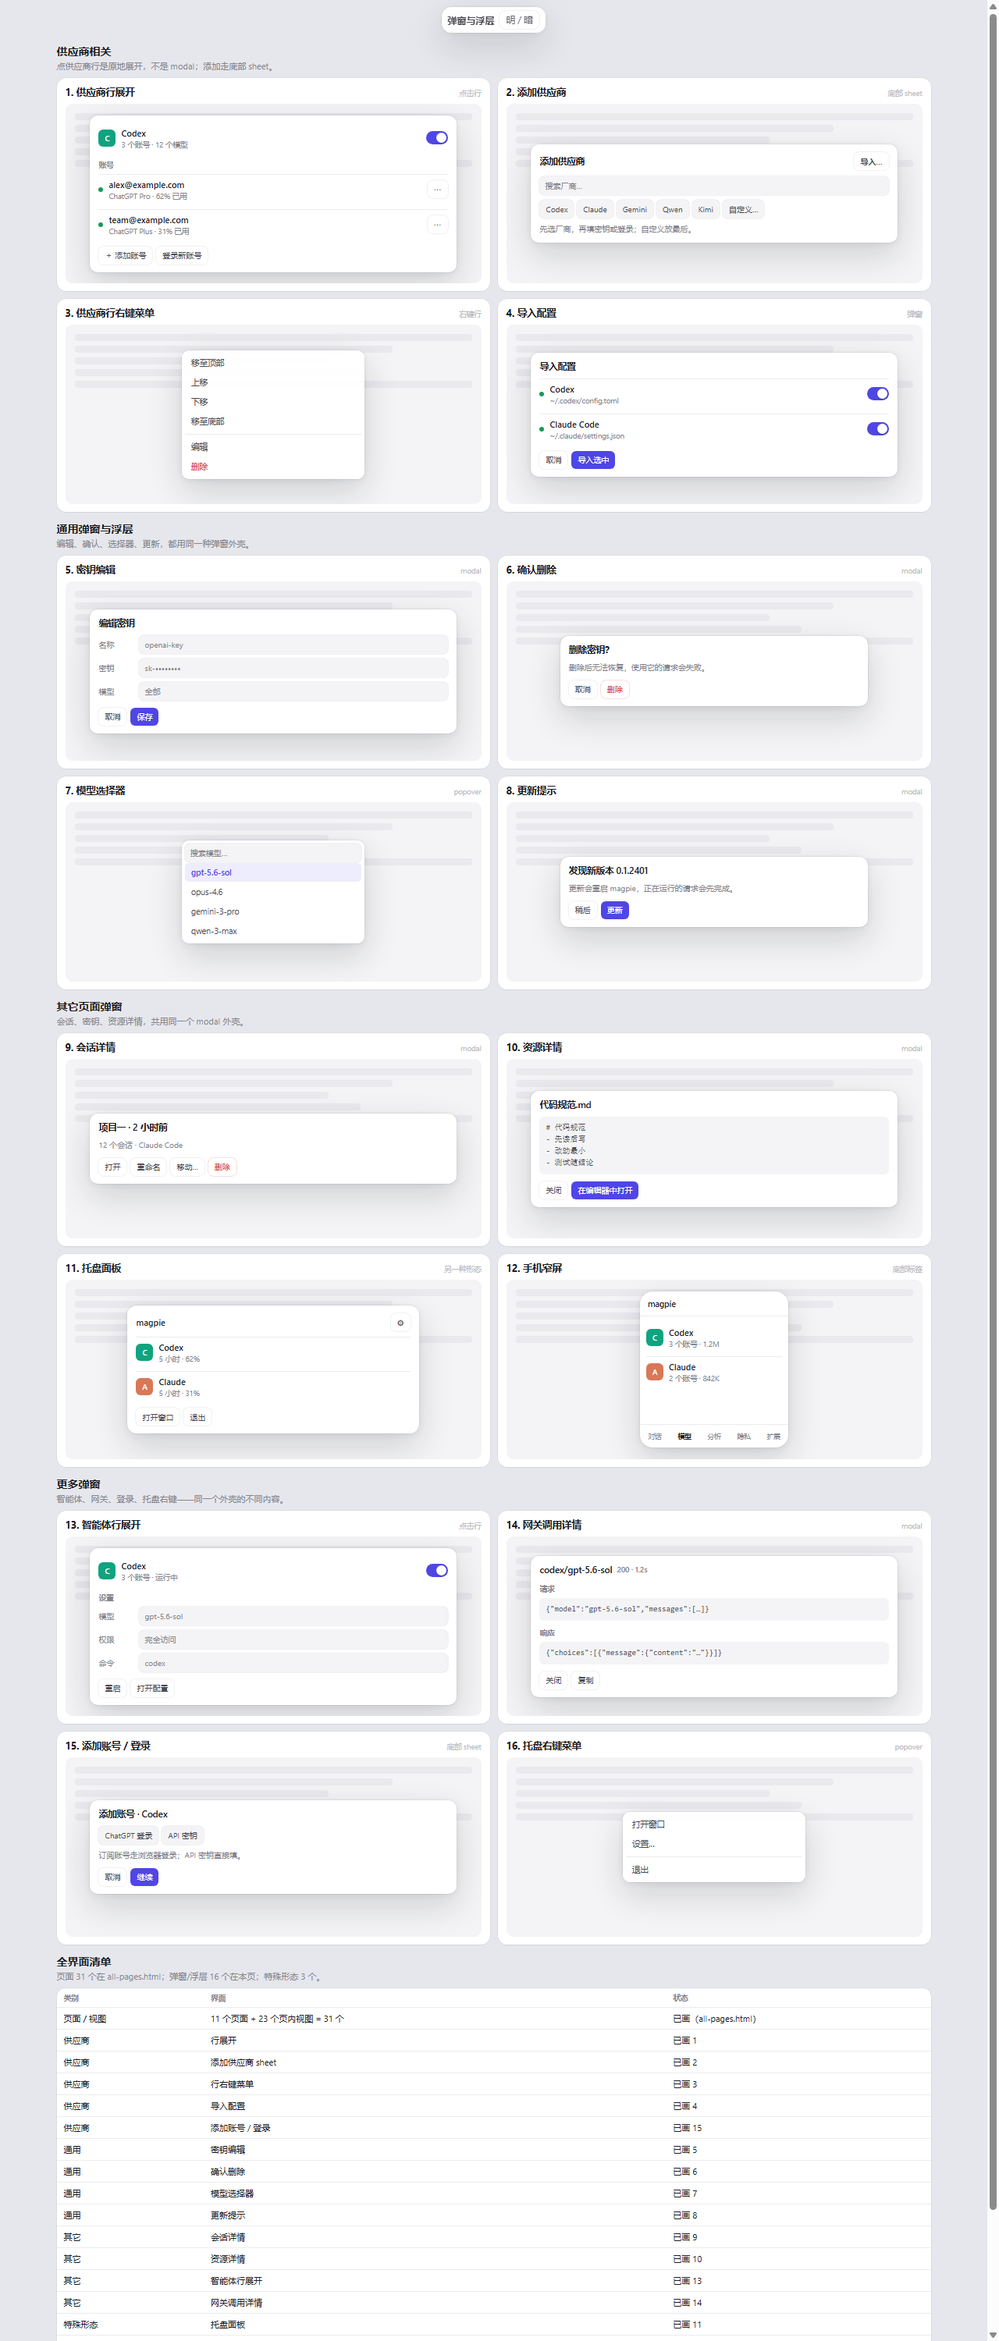
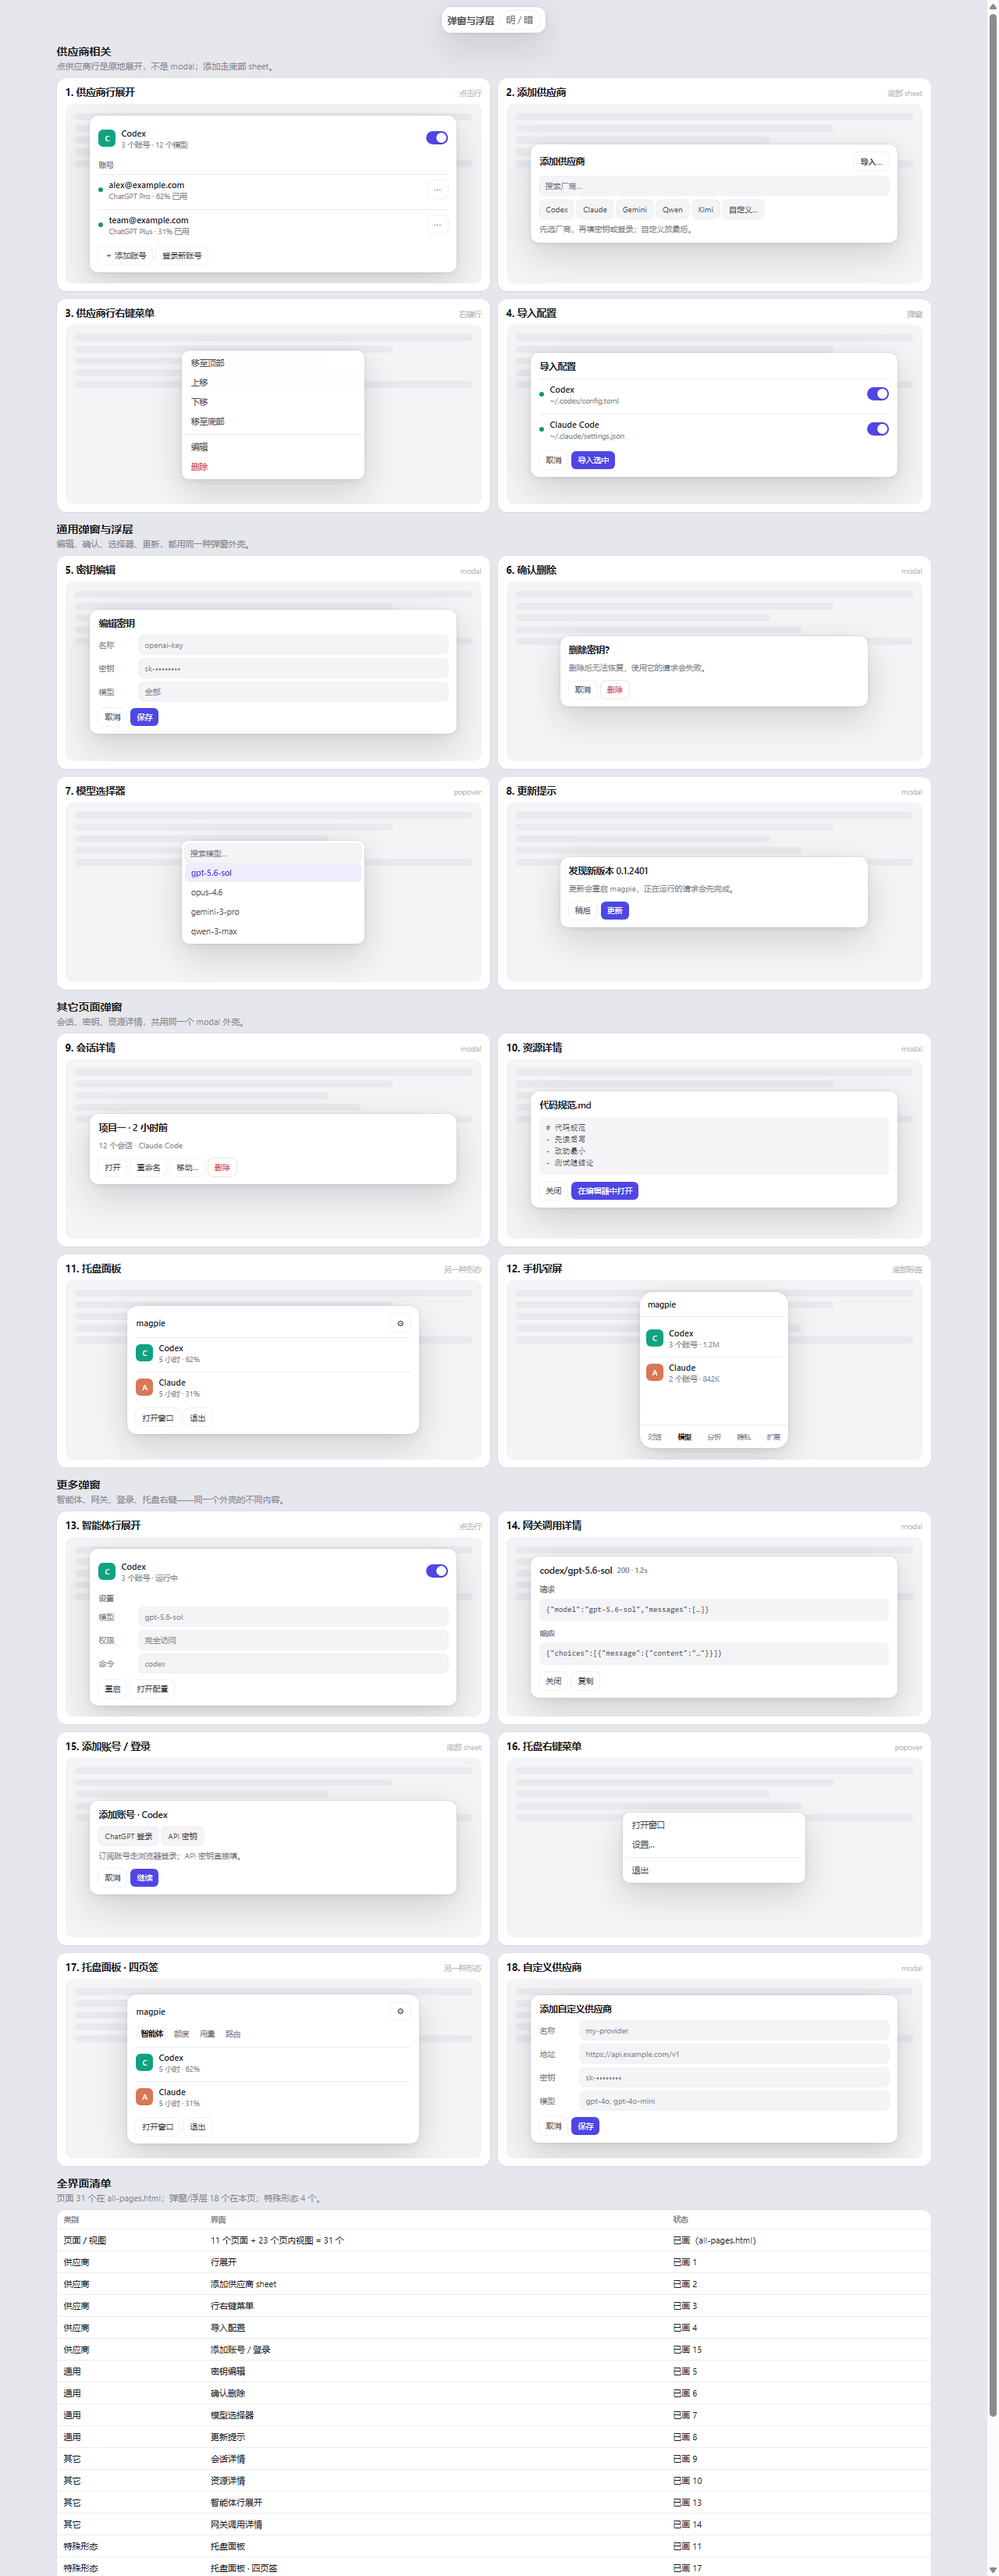
prototypes: audit gaps, tray tabs, and custom provider form

diff --git a/workspace/附属产物/nav-refactor/overlays.html b/workspace/附属产物/nav-refactor/overlays.html
@@ -90,6 +90,9 @@ section{width:1120px;max-width:100%}
 .panel{position:relative;z-index:1;width:70%;background:var(--card);border-radius:12px;box-shadow:var(--shadow);padding:10px 11px;display:flex;flex-direction:column;gap:5px}
 .panel-h{display:flex;align-items:center;gap:6px;font-size:11px;font-weight:600;margin-bottom:2px}
 .panel-h .grow{flex:1}
+.ptabs{display:flex;gap:2px;margin:2px 0 4px;font-size:9.5px;color:var(--muted)}
+.ptabs b,.ptabs span{padding:2px 6px;border-radius:5px}
+.ptabs b{background:var(--card-2);color:var(--fg);font-weight:600}
 .phone{position:relative;z-index:1;width:190px;height:200px;background:var(--card);border-radius:16px;box-shadow:var(--shadow);overflow:hidden;display:flex;flex-direction:column}
 .phone-h{height:32px;display:flex;align-items:center;padding:0 10px;font-size:10.5px;font-weight:600;border-bottom:.5px solid var(--line-2)}
 .phone-b{flex:1;padding:8px;display:flex;flex-direction:column;gap:5px}
@@ -326,12 +329,39 @@ td:first-child{font-weight:500}
         </div>
       </div>
     </div>
+    <div class="card">
+      <div class="ch"><b>17. 托盘面板 · 四页签</b><span>另一种形态</span></div>
+      <div class="stage">
+        <div class="dim"></div><div class="skel"><i></i><i></i><i></i><i></i><i></i></div>
+        <div class="panel">
+          <div class="panel-h">magpie<span class="grow"></span><button class="btn">⚙</button></div>
+          <div class="ptabs"><b>智能体</b><span>额度</span><span>用量</span><span>路由</span></div>
+          <div class="item"><span class="logo2" style="background:#10a37f">C</span><div class="who"><div class="nm">Codex</div><div class="sub">5 小时 · 62%</div></div></div>
+          <div class="item"><span class="logo2" style="background:#d97757">A</span><div class="who"><div class="nm">Claude</div><div class="sub">5 小时 · 31%</div></div></div>
+          <div class="rowbtns"><button class="btn">打开窗口</button><button class="btn">退出</button></div>
+        </div>
+      </div>
+    </div>
+    <div class="card">
+      <div class="ch"><b>18. 自定义供应商</b><span>modal</span></div>
+      <div class="stage">
+        <div class="dim"></div><div class="skel"><i></i><i></i><i></i><i></i><i></i></div>
+        <div class="sheet">
+          <div class="sheet-h">添加自定义供应商</div>
+          <div class="formrow"><label>名称</label><div class="field">my-provider</div></div>
+          <div class="formrow"><label>地址</label><div class="field">https://api.example.com/v1</div></div>
+          <div class="formrow"><label>密钥</label><div class="field">sk-••••••••</div></div>
+          <div class="formrow"><label>模型</label><div class="field">gpt-4o, gpt-4o-mini</div></div>
+          <div class="rowbtns"><button class="btn">取消</button><button class="btn primary">保存</button></div>
+        </div>
+      </div>
+    </div>
   </div>
 </section>
 
 <section>
   <h2>全界面清单</h2>
-  <p class="lead">页面 31 个在 all-pages.html；弹窗/浮层 16 个在本页；特殊形态 3 个。</p>
+  <p class="lead">页面 31 个在 all-pages.html；弹窗/浮层 18 个在本页；特殊形态 4 个。</p>
   <table>
     <thead><tr><th>类别</th><th>界面</th><th>状态</th></tr></thead>
     <tbody>
@@ -350,7 +380,9 @@ td:first-child{font-weight:500}
       <tr><td>其它</td><td>智能体行展开</td><td>已画 13</td></tr>
       <tr><td>其它</td><td>网关调用详情</td><td>已画 14</td></tr>
       <tr><td>特殊形态</td><td>托盘面板</td><td>已画 11</td></tr>
+      <tr><td>特殊形态</td><td>托盘面板 · 四页签</td><td>已画 17</td></tr>
       <tr><td>特殊形态</td><td>托盘右键菜单</td><td>已画 16</td></tr>
+      <tr><td>供应商</td><td>自定义供应商表单</td><td>已画 18</td></tr>
       <tr><td>特殊形态</td><td>手机窄屏</td><td>已画 12</td></tr>
       <tr><td>外部流程</td><td>OAuth 登录页、系统文件选择、浏览器授权</td><td>系统/外部页面，不画</td></tr>
       <tr><td>提示类</td><td>状态栏提示、错误条、加载骨架</td><td>组件已覆盖</td></tr>

diff --git a/workspace/附属产物/nav-refactor/index.html b/workspace/附属产物/nav-refactor/index.html
@@ -99,7 +99,7 @@ td .f{font-size:9.5px;color:var(--muted)}
       </a>
       <a class="entry" href="overlays.html">
         <span class="n">③ 浮层</span>
-        <b>弹窗与浮层（16 个）</b>
+        <b>弹窗与浮层（18 个）</b>
         <span class="d">供应商行展开、添加 sheet、确认、选择器、托盘</span>
         <span class="pill now">当前</span>
       </a>
@@ -132,12 +132,13 @@ td .f{font-size:9.5px;color:var(--muted)}
       <tbody>
         <tr><td><a href="skeleton-components.html">skeleton-components.html</a></td><td><span class="pill ok">当前</span></td><td>骨架与通用组件</td><td>外壳 + 4 导航组件 + 11 内容组件<br><span class="f">骨架宽/窄、明暗</span></td></tr>
         <tr><td><a href="all-pages.html">all-pages.html</a></td><td><span class="pill now">当前</span></td><td>全部页面与页内视图</td><td>31 个视图 + 每页元素表 + 31 行总索引<br><span class="f">顶部可开「标注」</span></td></tr>
-        <tr><td><a href="overlays.html">overlays.html</a></td><td><span class="pill now">当前</span></td><td>弹窗与浮层</td><td>16 个 + 19 行全界面清单<br><span class="f">含托盘、手机、外部流程说明</span></td></tr>
+        <tr><td><a href="overlays.html">overlays.html</a></td><td><span class="pill now">当前</span></td><td>弹窗与浮层</td><td>18 个 + 21 行全界面清单<br><span class="f">含托盘、手机、外部流程说明</span></td></tr>
         <tr><td><a href="framework-layers.html">framework-layers.html</a></td><td><span class="pill ok">定稿</span></td><td>四层导航框架</td><td>一级 5 分区 / 二级页面 / 三级标签 / 四级工具栏<br><span class="f">外壳已定，不再改</span></td></tr>
         <tr><td><a href="grouping-options.html">grouping-options.html</a></td><td><span class="pill prop">提案</span></td><td>导航分组 A/B/C</td><td>3 套分组方案，尚未确认<br><span class="f">等选 A / B / C</span></td></tr>
         <tr><td><a href="layout-detail.html">layout-detail.html</a></td><td><span class="pill old">历史</span></td><td>六页细节版</td><td>真实页内标签数的早期版本<br><span class="f">已被 all-pages 取代</span></td></tr>
         <tr><td><a href="layout-frameworks.html">layout-frameworks.html</a></td><td><span class="pill old">历史</span></td><td>宽窄两套骨架</td><td>早期框架对比<br><span class="f">已被 framework-layers 取代</span></td></tr>
         <tr><td><a href="prototype.html">prototype.html</a></td><td><span class="pill old">历史</span></td><td>三方案（英文）</td><td>最早的三套导航方案<br><span class="f">已被四层框架取代</span></td></tr>
+        <tr><td><a href="AUDIT.md">AUDIT.md</a></td><td><span class="pill old">审计</span></td><td>检查与遗漏清单</td><td>缺口优先级 + 布局方案 A–E</td></tr>
         <tr><td><a href="README.md">README.md</a></td><td><span class="pill old">说明</span></td><td>文字台账（非入口）</td><td>组件、层级、标注、清单的详细说明</td></tr>
       </tbody>
     </table>

diff --git a/workspace/附属产物/nav-refactor/AUDIT.md b/workspace/附属产物/nav-refactor/AUDIT.md
@@ -1,0 +1,87 @@
+# 检查与遗漏清单
+
+检查时间：2026-11-16。对应提交：`3d7430c72`（94 文件，仅 `workspace/附属产物/nav-refactor/`）。
+
+## 已核对
+
+| 项 | 结果 |
+|---|---|
+| 页面 / 视图 | 31 个（11 页面 + 23 页内视图） |
+| 弹窗 / 浮层 | 16 个（已画）+ 19 行清单 |
+| 页内视图区域表 | 23 个逐个核对，区域名与表格一致 |
+| 总览链接 | 9 个链接，缺失 0 |
+| 历史文件角标 | 3 个历史 + 1 个提案，均有角标 |
+| 并行会话 | 未暂存、未提交，工作区原样保留 |
+
+## 遗漏（按优先级）
+
+### P1 · 整块界面缺
+
+1. **托盘面板的四个页签**
+   - 真实代码：`index.html` 的 `#ptabs`，`data-ptab="agents|usage|stats|routing"`。
+   - 现状：`overlays.html` 的「11. 托盘面板」只画了额度卡片，没有页签。
+   - 建议：补 1 张“托盘面板 · 四页签”，页签为 智能体 / 额度 / 用量 / 路由。
+
+2. **添加自定义供应商表单**
+   - 真实代码：`app.js` 的 `renderEditor`（自定义供应商字段）。
+   - 现状：`overlays.html` 的「2. 添加供应商」只有“自定义…”入口，表单没画。
+   - 建议：补 1 张“自定义供应商”，字段为 名称 / 地址 / 密钥 / 模型。
+
+### P2 · 缺具体表单
+
+3. **设置 · 语言选择器 / 字体选择器 / 快捷键录制**
+   - 现状：只有通用“模型选择器”（7）。
+   - 影响：字体是两段（字族 + 字重），快捷键是录制态，和普通选择器不同。
+4. **会话 · 重命名 / 移动表单**
+   - 真实代码：`plugins/sessions/client.js` 多处 `openModal(ed)`。
+   - 现状：「9. 会话详情」只有按钮，没有表单。
+5. **智能体 · 添加 / 编辑 sheet**
+   - 现状：「13. 智能体行展开」只画了已存在智能体的设置，没有“添加智能体”流程。
+
+### P3 · 次要 / 可用组件覆盖
+
+6. **用量 · 请求详情 / 上下文文本查看**（`openCtxText`、`/api/context/text`）
+7. **手机端内页**（目前只有手机首页，没有设置/供应商内页）
+8. **供应商 · 已关闭展开、确认丢弃编辑**
+9. **更新 · 下载进度 / 重启确认**（目前只有更新提示）
+
+## 更好的布局方案
+
+> 外壳已定稿，下面 A 需要你点头才动；B/C 是局部优化。
+
+### A. 窄窗把一级 + 二级合并成一条（推荐）
+
+现在窄窗有 3 行导航：分区条 + 页面条 + 页内标签。合并后：
+
+```
+[对话] 智能体 会话 │ [模型] 供应商 路由 网关 │ ...   ← 一行，可横滑
+概览 请求 会话 上下文 榜单                          ← 页内标签
+[工具栏]
+```
+
+- 省一行（约 31–34px），内容多显示一行。
+- 分组仍然看得见（组名做小标签）。
+- 代价：一行更长，要横滑；组名比独立条弱。
+- 已有参考：`grouping-options.html` 的窄窗就是这样。
+
+### B. 窄窗页签溢出改成“更多”
+
+设置 9 个页签在 720px 够放，但在 420–520px 会横滑。可改成前 4 个 + “更多 ⌄”，把剩下的收进菜单。
+
+### C. 宽窗设置页不要把 9 个页签塞侧栏脚
+
+`all-pages.html` 已经把设置页签放在内容区，侧栏只留“设置”一行；这是对的，保持。`layout-detail.html` 里塞侧栏脚会挤压页面列表，别再回去。
+
+### D. 标注模式不占布局
+
+现在“标注”会在每个区域上方加一行编号，内容会下移。改成绝对定位的角标，标注开关不再改变布局。
+
+### E. 总览页加缩略图
+
+`index.html` 的 4 个入口现在是纯文字；可加 4 张小缩略图，选文件更快。非必需。
+
+## 建议顺序
+
+1. 先补 P1 两张（托盘四页签、自定义供应商）——整块界面，不补会漏。
+2. 你定 A（窄窗合并一行）要不要试；要试我加一个开关，不直接替换定稿。
+3. 再补 P2 的表单类；P3 按需。

diff --git a/workspace/附属产物/nav-refactor/README.md b/workspace/附属产物/nav-refactor/README.md
@@ -69,7 +69,7 @@
 
 没有页面私自造新组件。
 
-## 弹窗与浮层（16 个）
+## 弹窗与浮层（18 个）
 
 `overlays.html` 把窗口之外的界面补齐了。特别说明：**点供应商行是原地展开编辑器，不是 modal**；添加供应商才是底部 sheet。
 
@@ -78,7 +78,7 @@
 - 其它：会话详情、资源详情、智能体行展开、网关调用详情
 - 特殊形态：托盘面板、托盘右键菜单、手机窄屏
 
-页面底部有一张逐项清单（19 行），每项标了“已画 / 外部 / 组件覆盖”；OAuth 登录页、系统文件选择、浏览器授权属于系统/外部页面，不画。
+页面底部有一张逐项清单（21 行），每项标了“已画 / 外部 / 组件覆盖”；OAuth 登录页、系统文件选择、浏览器授权属于系统/外部页面，不画。
 
 截图：`overlays-light.png`、`overlays-dark.png`。
 
@@ -89,7 +89,8 @@
 ## 相关文件
 
 - `all-pages.html`：用这些组件拼出的 31 个视图（11 个页面 + 23 个页内视图）
-- `overlays.html`：16 个弹窗/浮层 + 全界面清单
+- `overlays.html`：18 个弹窗/浮层 + 全界面清单
+- `AUDIT.md`：检查与遗漏清单 + 布局方案 A–E
 - `framework-layers.html`：四层导航框架图（外壳定义）
 - `grouping-options.html`：导航分组方案
 - `layout-detail.html`：真实页内标签的细节版

diff --git a/workspace/附属产物/nav-refactor/MANIFEST.md b/workspace/附属产物/nav-refactor/MANIFEST.md
@@ -8,8 +8,9 @@
 |---|---|---|---|
 | `skeleton-components.html` | 骨架与通用组件 | 外壳 + 4 导航组件 + 11 内容组件 | 骨架宽/窄、明暗 |
 | `all-pages.html` | 全部页面与页内视图 | 31 个视图 + 每页元素表 + 31 行总索引 | 顶部可开「标注」 |
-| `overlays.html` | 弹窗与浮层 | 16 个 + 19 行全界面清单 | 含托盘、手机、外部流程说明 |
+| `overlays.html` | 弹窗与浮层 | 18 个 + 21 行全界面清单 | 含托盘、手机、外部流程说明 |
 | `index.html` | 总览入口 | 4 个当前入口 + 版本关系 + 文件清单 | 本页 |
+| `AUDIT.md` | 检查与遗漏清单 | 缺口优先级 + 布局方案 A–E | 2026-11-16 |
 
 ## 定稿（不再改）
 
